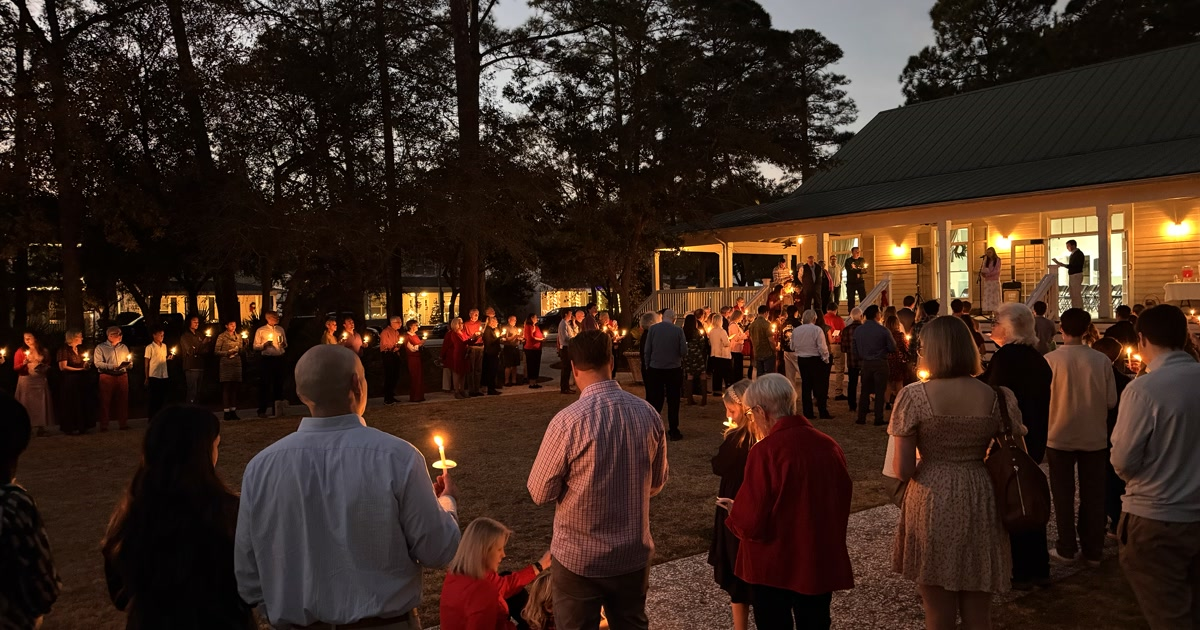
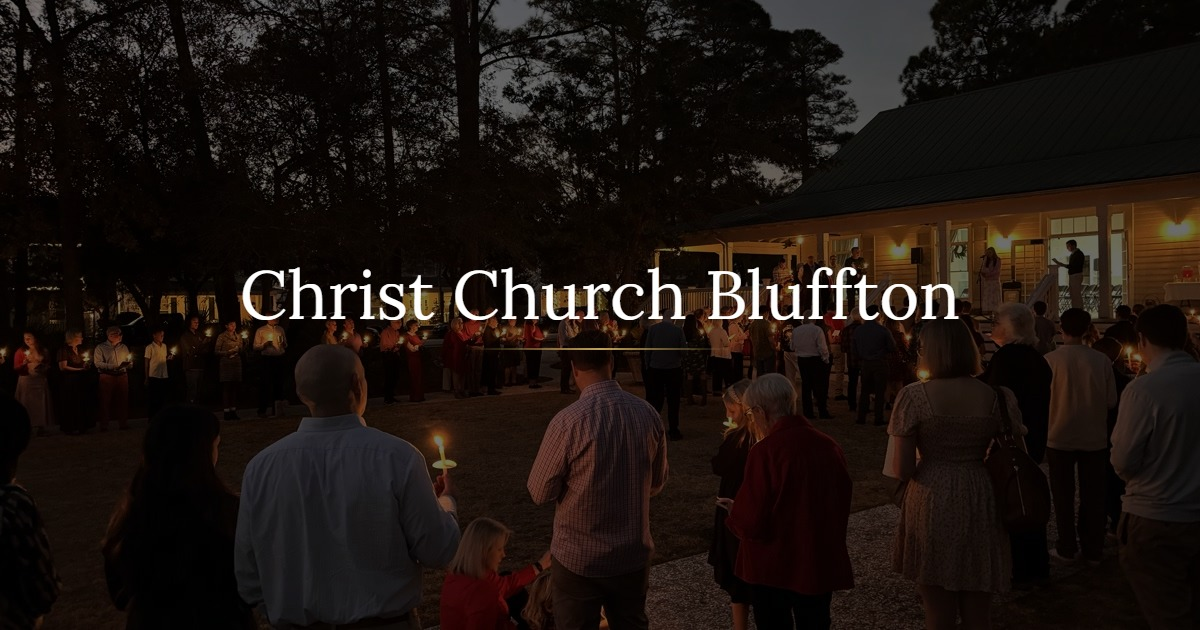
Add homepage-style text overlay to shared OG image, add coming-soon page, log go-live notes
OG image (Home/Give/Contact/Privacy/Terms) now shows "Christ Church Bluffton"
over the photo, matching the homepage hero treatment. Also adds the
production Coming Soon page (separate folder, not part of the deployed
site) and todo.md notes on the pre-launch audit findings.

diff --git a/coming-soon/index.html b/coming-soon/index.html
@@ -1,0 +1,157 @@
+<!DOCTYPE html>
+<html lang="en">
+<head>
+<meta charset="UTF-8">
+<meta name="viewport" content="width=device-width, initial-scale=1.0">
+<meta name="robots" content="noindex, nofollow">
+<title>Christ Church Bluffton — Coming Soon</title>
+<meta property="og:title" content="Christ Church Bluffton">
+<meta property="og:description" content="Our new website launches soon.">
+<meta property="og:type" content="website">
+<meta property="og:image" content="https://christchurchbluffton.org/images/og-image.png">
+<meta property="og:url" content="https://christchurchbluffton.org/">
+<meta name="twitter:card" content="summary_large_image">
+<meta name="twitter:image" content="https://christchurchbluffton.org/images/og-image.png">
+<style>
+  :root {
+    --navy: #303b6a;
+    --gold: #c3a355;
+    --gold-text: #7F6D34;
+  }
+  * { margin: 0; padding: 0; box-sizing: border-box; }
+  body {
+    min-height: 100vh;
+    display: flex;
+    align-items: center;
+    justify-content: center;
+    background: #fdfcf9;
+    font-family: Georgia, 'Times New Roman', serif;
+    color: var(--navy);
+    padding: 24px;
+  }
+  .card {
+    width: 100%;
+    max-width: 560px;
+    text-align: center;
+  }
+  .logo {
+    width: 180px;
+    max-width: 60%;
+    height: auto;
+    margin: 0 auto 32px;
+    display: block;
+  }
+  h1 {
+    font-size: clamp(1.75rem, 5vw, 2.5rem);
+    font-weight: 400;
+    letter-spacing: 0.04em;
+    color: var(--navy);
+  }
+  .divider {
+    width: 64px;
+    height: 2px;
+    background: var(--gold);
+    margin: 18px auto;
+  }
+  .subtitle {
+    font-size: 1.05rem;
+    color: var(--gold-text);
+    font-style: italic;
+    margin-bottom: 36px;
+  }
+  .countdown {
+    display: flex;
+    justify-content: center;
+    gap: 12px;
+    flex-wrap: wrap;
+    margin-bottom: 36px;
+  }
+  .unit {
+    background: var(--navy);
+    color: #fff;
+    border-radius: 8px;
+    padding: 14px 10px;
+    min-width: 74px;
+  }
+  .unit .num {
+    font-size: clamp(1.5rem, 6vw, 2.1rem);
+    font-weight: 700;
+    line-height: 1;
+    font-family: Georgia, serif;
+  }
+  .unit .label {
+    display: block;
+    font-size: 0.65rem;
+    letter-spacing: 0.08em;
+    text-transform: uppercase;
+    color: var(--gold);
+    margin-top: 6px;
+    font-family: -apple-system, BlinkMacSystemFont, 'Segoe UI', sans-serif;
+  }
+  .live-message {
+    font-size: 1.2rem;
+    font-weight: 600;
+    color: var(--gold-text);
+  }
+  .scripture {
+    font-style: italic;
+    color: var(--navy);
+    font-size: 1rem;
+    line-height: 1.6;
+    max-width: 440px;
+    margin: 0 auto;
+  }
+  .scripture-ref {
+    display: block;
+    margin-top: 10px;
+    font-style: normal;
+    color: var(--gold-text);
+    font-size: 0.85rem;
+    letter-spacing: 0.03em;
+  }
+</style>
+</head>
+<body>
+  <div class="card">
+    <img class="logo" src="images/logo.png" alt="Christ Church Bluffton">
+    <h1>Coming Soon</h1>
+    <div class="divider"></div>
+    <p class="subtitle">Our new website launches soon</p>
+
+    <div id="countdown" class="countdown" aria-live="polite">
+      <div class="unit"><span class="num" id="days">--</span><span class="label">Days</span></div>
+      <div class="unit"><span class="num" id="hours">--</span><span class="label">Hours</span></div>
+      <div class="unit"><span class="num" id="minutes">--</span><span class="label">Minutes</span></div>
+      <div class="unit"><span class="num" id="seconds">--</span><span class="label">Seconds</span></div>
+    </div>
+
+    <p class="scripture">&ldquo;And day by day, attending the temple together and breaking bread in their homes, they received their food with glad and generous hearts.&rdquo;<span class="scripture-ref">&mdash; Acts 2:46 (ESV)</span></p>
+  </div>
+
+<script>
+  // Aug 1, 2026, 9:00 AM Eastern (EDT, UTC-4)
+  var launchDate = new Date('2026-08-01T09:00:00-04:00').getTime();
+  var countdownEl = document.getElementById('countdown');
+
+  var timer = setInterval(function () {
+    var distance = launchDate - Date.now();
+
+    if (distance <= 0) {
+      clearInterval(timer);
+      countdownEl.innerHTML = '<p class="live-message">We\'re live! Refresh the page.</p>';
+      return;
+    }
+
+    var days = Math.floor(distance / (1000 * 60 * 60 * 24));
+    var hours = Math.floor((distance % (1000 * 60 * 60 * 24)) / (1000 * 60 * 60));
+    var minutes = Math.floor((distance % (1000 * 60 * 60)) / (1000 * 60));
+    var seconds = Math.floor((distance % (1000 * 60)) / 1000);
+
+    document.getElementById('days').textContent = days;
+    document.getElementById('hours').textContent = String(hours).padStart(2, '0');
+    document.getElementById('minutes').textContent = String(minutes).padStart(2, '0');
+    document.getElementById('seconds').textContent = String(seconds).padStart(2, '0');
+  }, 1000);
+</script>
+</body>
+</html>

diff --git a/todo.md b/todo.md
@@ -35,6 +35,12 @@ Client requested "Anglican" be removed from the site entirely (denomination is s
 - [x] Serve page "Greeting & Ushers" — replaced the stock Pexels handshake photo with a real photo of an actual greeter handing a bulletin to arriving members at Christ Church Bluffton (`ministry-greeting-ushers.webp`, re-shot at 1400x933 + 700x467 mobile), alt text updated to match
 - [x] Archived the 3 unused real photos (pastor preaching, staff team candid, greeters in fellowship hall, usher "Rob") into a new folder `Christ Church Bluffton - Client Photos/` (sibling to the project, outside git) in case needed for future updates — originals also still sit in `Downloads/`, untouched
 
+## Coming Soon page (2026-07-28) — pushed live to PRODUCTION repo/domain
+Discovered during pre-launch audit that `christchurchbluffton.org` was showing a bare "404 Not Found" placeholder (committed directly to the production repo `ChristChurchBuffton/christchurchbluffton` back in April, "Temporarily take down site — client request"). That repo has never had the finished site pushed to it — only an old early build, then the takedown commit.
+- [x] Built a standalone "Coming Soon" page (own folder `coming-soon/`, not part of `src/`) — logo, countdown to Saturday Aug 1 9:00 AM Eastern, Acts 2:46 (ESV) verse (same wording as the real site's About/Give/Groups pages), Open Graph image (logo only, `images/og-image.png`) for link previews
+- [x] Pushed directly to `ChristChurchBuffton/christchurchbluffton` (main) and confirmed live on the real domain — commits `994a79d` (page) and `03a742c` (OG image). Push worked cleanly with no credential picker/auth issue, contrary to the old assumption that Claude's pushes can't reach production — worth re-testing that assumption before the real cutover too.
+- [ ] **IMPORTANT — on the next (real launch) push**: this Coming Soon page must be removed/replaced, not left in the repo. Either delete `index.html`/`images/og-image.png`/`images/logo.png` from the production repo when pushing the real `src/` site over it, or archive the coming-soon files (e.g. copy to `archive/` or the local `coming-soon/` folder is already the source of truth) before overwriting. Do not let the countdown page linger post-launch.
+
 ## Go-Live / Domain Cutover — NOT TRACKED ANYWHERE ELSE, added 2026-07-24 on review
 Jonathan's production Netlify site (the real one, bound to `christchurchbluffton.org`) is confirmed not live yet — nothing in this file actually covers switching the real domain over to it. Flagging as genuinely missing rather than guessing specifics:
 - [ ] Confirm what `christchurchbluffton.org` currently points to today (existing old site? nothing? a placeholder?) before cutover, so nothing gets lost
